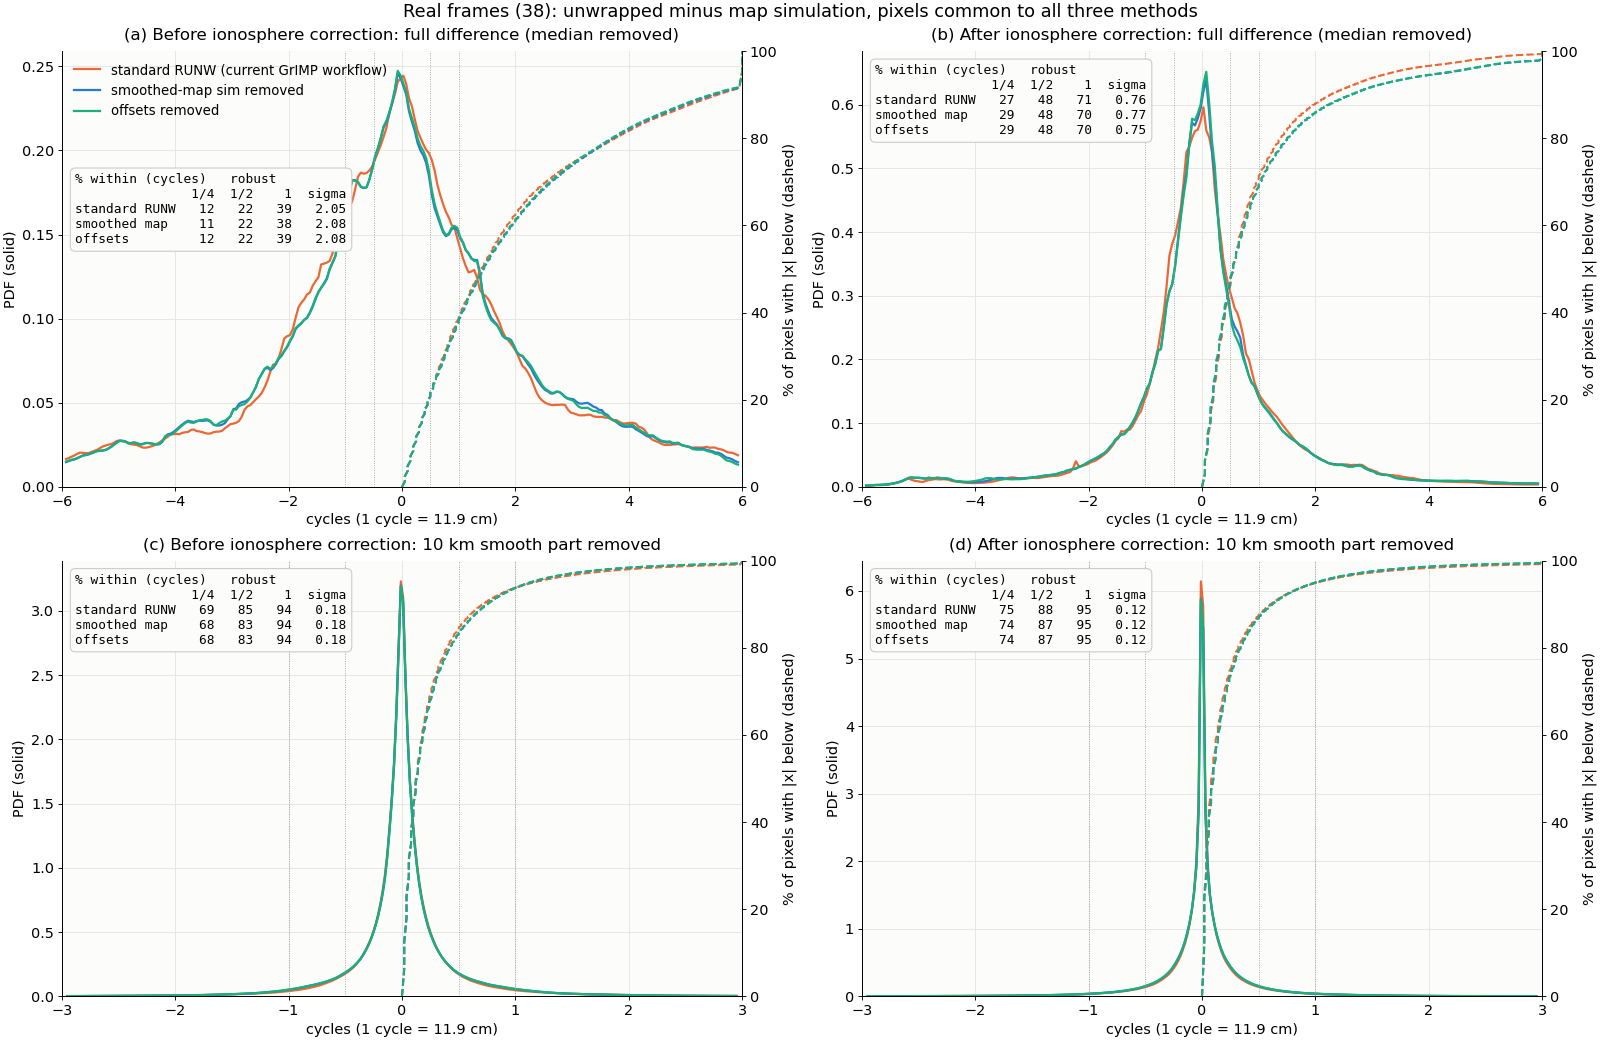
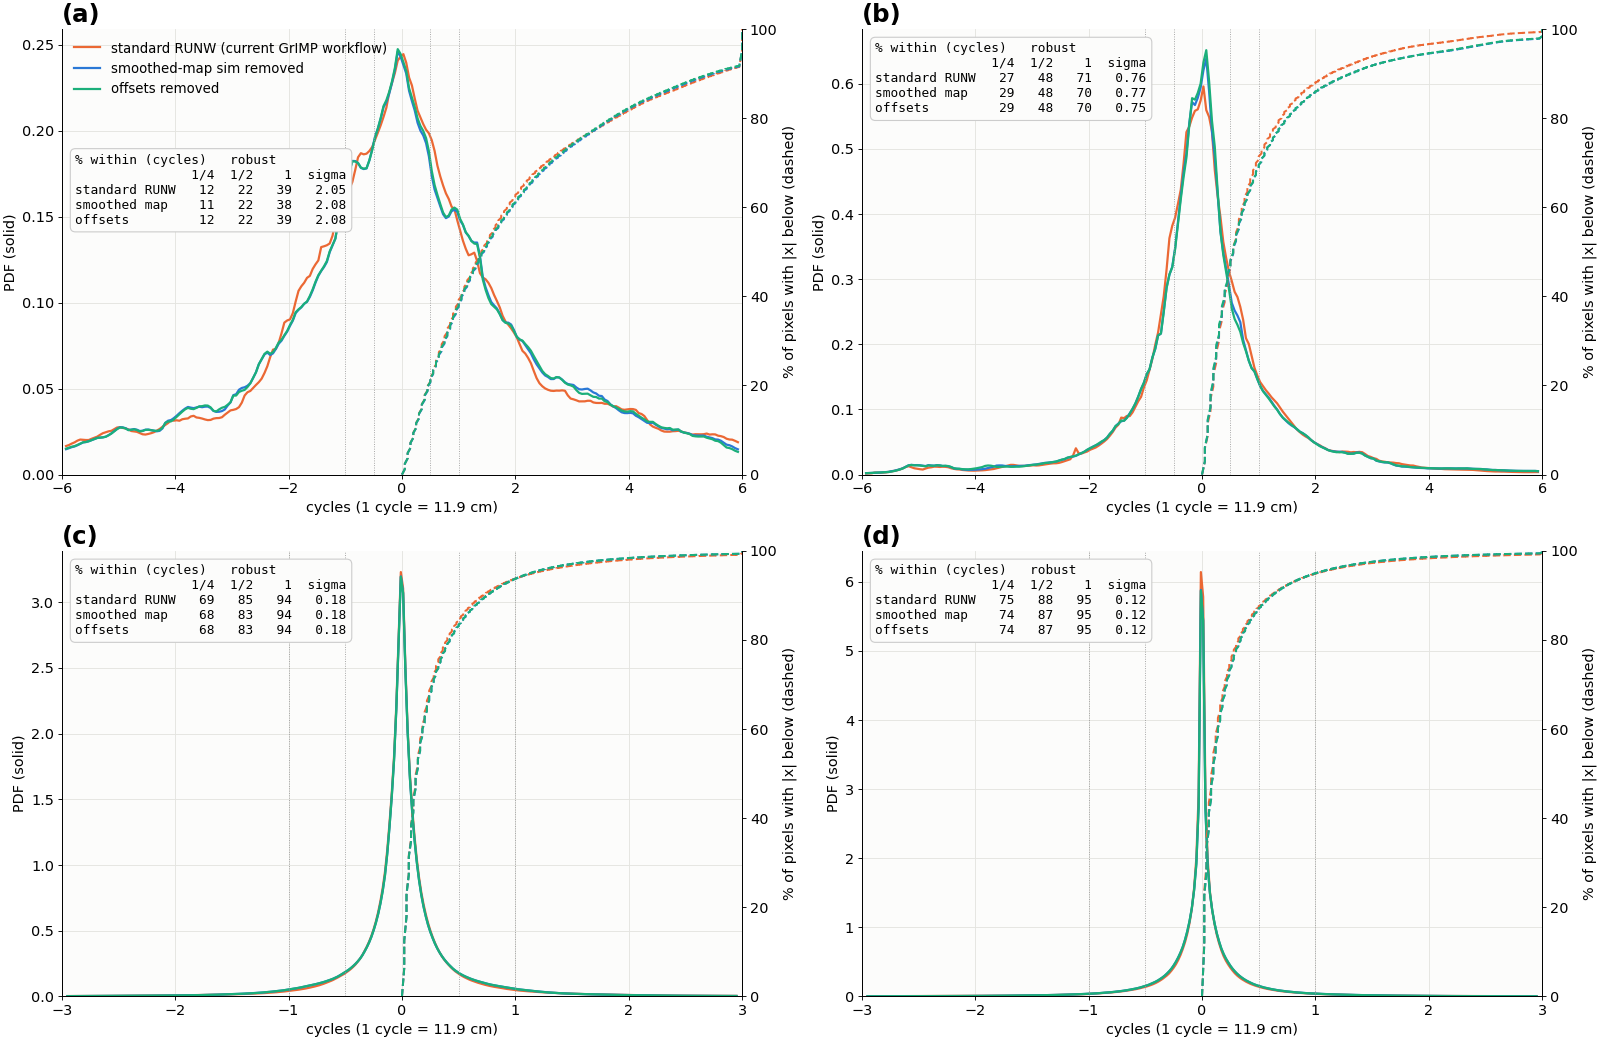
unwrappingReference: figures with panel letters only; explanations moved to the captions
Claude-Session: https://claude.ai/code/session_01UG6jZhctxPfaFKqE7cozuF

diff --git a/Documents/unwrappingReference.md b/Documents/unwrappingReference.md
@@ -50,11 +50,12 @@ Results so far:
   residues (Section 3.3).
 
 ![Figure 1](images/unwrapRef_byrdUnwrapped.png)
-*Figure 1. Byrd Glacier entering the Ross Ice Shelf (`t159D_f128`, 2026-07-07 to 2026-07-19), unwrapped phase in
-cycles relative to the median on grounded ice; grey lines are component boundaries, black the floating-ice outline.
-The standard RUNW splits the fast flow and the shelf into separate components at arbitrary levels (largest component 43% of
-the ice). With the smoothed map simulation or the range offsets removed before unwrapping, the frame unwraps as one
-component (83-84%); the two unwrappings differ by a whole cycle on 0.28% of their common pixels (lower right).*
+*Figure 1. Byrd Glacier entering the Ross Ice Shelf (`t159D_f128`, 2026-07-07 to 2026-07-19). (a)-(c) Unwrapped
+phase in cycles relative to the median on grounded ice; grey lines are component boundaries, black the floating-ice
+outline. (a) The standard RUNW: it covers 76% of the ice in 4 components of 5% or more, the largest 43%, and splits the
+fast flow and the shelf into separate components at arbitrary levels. (b) Unwrapped with the smoothed map simulation
+removed: 83% of the ice in one component. (c) Unwrapped with the range offsets removed: 84% in one component.
+(d) (b) minus (c) in whole cycles: equal on 99.71% of their common pixels, +1 on 0.20%, −1 on 0.08%.*
 
 ## 1. Method
 
@@ -120,9 +121,10 @@ mosaic's short-scale detail does not match this pair, and the total rises to 1.0
 before simulating removes most of the added residues (0.89 times).
 
 ![Figure 2](images/unwrapRef_byrdResidues.png)
-*Figure 2. Byrd (`t159D_f128`): residue density in 1 km blocks over valid ice, on the same pixels in every panel. Top:
-the wrapped phase with no reference, with the unsmoothed map simulation removed, with the 1 km smoothed map
-simulation removed, and with the range offsets removed. Bottom: change from no reference (red = more residues).*
+*Figure 2. Byrd (`t159D_f128`): residue density in 1 km blocks over valid ice, on the same pixels in every panel.
+(a) The wrapped phase with no reference (342,747 residues). (b) With the unsmoothed map simulation removed (360,783,
+1.05 times). (c) With the 1 km smoothed map simulation removed (306,337, 0.89 times). (d) With the range offsets
+removed (293,846, 0.86 times). (e)-(g) Change of (b)-(d) from (a), residues per pixel; red = more residues.*
 
 ### 2.2 Smoothing the map
 
@@ -152,9 +154,9 @@ is a patchwork of rectangles with steps of one to three cycles along straight li
 the seams but a step of whole cycles remains a step.
 
 ![Figure 3](images/unwrapRef_t152A_mapSeams.png)
-*Figure 3. `t152A_f139`: the unsmoothed map simulation (left, cycles), the simulation minus the standard RUNW's unwrapped
-phase (middle, cycles), and the coherence (right). The rectangles in the middle panel are seams between scenes in the
-velocity mosaic.*
+*Figure 3. `t152A_f139`. (a) The unsmoothed map simulation, cycles. (b) The simulation minus the standard RUNW's
+unwrapped phase, cycles; the rectangles are seams between scenes in the velocity mosaic, and the block at lower left is
+about 40 cycles off. (c) Coherence, high throughout.*
 
 ### 2.3 All real frames
 
@@ -172,7 +174,9 @@ the map-seam frames of Table 1.
 
 ![Figure 4](images/unwrapRef_residueRatios.png)
 *Figure 4. Residues with each reference removed relative to no reference, per frame: smoothed map simulation (x)
-against range offsets (y). Ratios above 2 are drawn at 2 and labelled with their values.*
+against range offsets (y), for the 31 fast-flow frames (circles) and the 10-frame coastal sample (squares). Below 1
+means fewer residues than with no reference; below the dashed line, the offsets leave fewer than the map. Ratios above
+2 are drawn at 2 and labelled with their values.*
 
 ## 3. Results
 
@@ -196,9 +200,12 @@ stock untiled snaphu with no mask (our stand-in for how the standard RUNW is unw
 With either reference removed, the real frames look like the synthetic ones.
 
 ![Figure 5](images/unwrapRef_components.png)
-*Figure 5. Connected components ranked largest to smallest. (a) Real frames, cumulative share of valid ice, median
-over frames. (b) Synthetic test, cumulative share of the scored area. (c) Largest component per frame (box 25-75%,
-line median, whiskers 10-90%). The same colour and marker mean the same method throughout.*
+*Figure 5. Connected components ranked largest to smallest; the same colour and marker mean the same method
+throughout. (a) Real frames (41): cumulative share of valid ice covered by the largest n components, median over
+frames, for the standard RUNW and the two new unwrappings. (b) Synthetic test (200 frames): the same for the scored
+area, for stock untiled snaphu with no mask, masked tiled `-S` with no reference, and masked tiled `-S` with the real
+or synthetic offsets removed. (c) The largest component per frame for all seven (box 25-75%, line median with its
+value at right, whiskers 10-90%).*
 
 ### 3.2 Accuracy: are the bigger components noisier?
 
@@ -217,8 +224,10 @@ between components are not counted), and separately for the largest component al
 | Largest component, median | 81.3% | 84.5% | 84.5% |
 
 ![Figure 6](images/unwrapRef_syntheticAccuracy.png)
-*Figure 6. Synthetic test, 200 frames. Mean share of wrong pixels over frames, (a) all scored pixels and (b) the
-largest component only, by class. (c) Frames with fewer (solid) and more (hatched) wrong pixels than with no reference.*
+*Figure 6. Synthetic test, 200 frames, masked tiled `-S` with no reference, with the real offsets removed and with
+synthetic offsets removed. (a) Mean share of wrong pixels over frames, all scored pixels, for all frames and by class.
+(b) The same for the largest component only. (c) Frames with fewer (solid) and more (hatched) wrong pixels than with no
+reference, by more than 0.05 percentage points.*
 
 Removing the offsets makes the unwrapping more accurate, and the largest components cleaner, on both versions of the
 test. The worst frames gain most: with synthetic offsets, `t166A_f139` falls from 64% wrong pixels to 1.3%, `t022A_f139`
@@ -259,11 +268,12 @@ in line of sight.*
 | Within 1/4 / 1/2 / 1 cycle, smooth part removed, after correction | 75 / 88 / 95% | 74 / 87 / 95% | 74 / 87 / 95% |
 
 ![Figure 7](images/unwrapRef_vsMap.png)
-*Figure 7. Real frames: unwrapped minus the map simulation, pixels common to all three methods, pooled over 38
-frames. Columns: before and after the ionosphere correction. Rows: full difference (median removed), and with the
-10 km smooth part removed. Each panel shows the PDF (solid) and the share of pixels within a given distance (dashed),
-and a table of the shares within 1/4, 1/2 and 1 cycle and the robust σ. Values beyond the axis limits are counted at
-the limit.*
+*Figure 7. Real frames: each ambiguity-resolved unwrapping minus the map simulation, on pixels common to all three
+methods, pooled over 38 frames. (a) Before the ionosphere correction, full difference (median removed). (b) After the
+ionosphere correction, full difference. (c) Before the correction, with the 10 km smooth part removed. (d) After the
+correction, with the smooth part removed. Each panel shows the PDF (solid, left axis) and the share of pixels within a
+given distance of zero (dashed, right axis), and a table of the shares within 1/4, 1/2 and 1 cycle and the robust σ.
+Values beyond the axis limits are counted at the limit.*
 
 On the pixels all three unwrap, the new unwrappings are as close to the map as the standard RUNW processed with the
 current GrIMP workflow. Three caveats:
